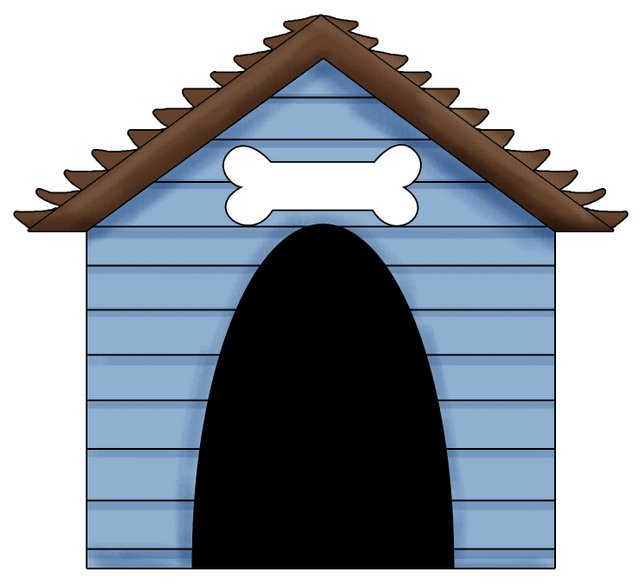
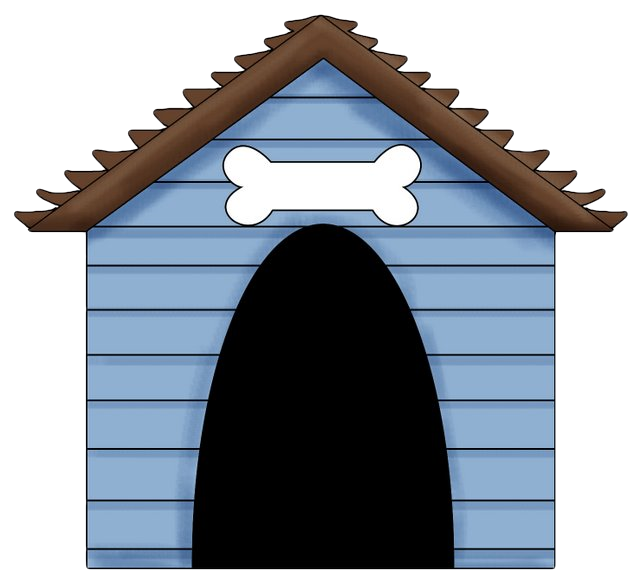
Add tons of image versions. Make images more accessible via static vars.

diff --git a/src/Panels/MainGamePanel.java b/src/Panels/MainGamePanel.java
@@ -158,7 +158,7 @@ public class MainGamePanel extends JPanel implements ActionListener {
 		//The player simply has to move the character 3 spaces to the right.
 		Level l1 = new Level(Board.unitDimension, board); 
 		l1.setPlayerSpawnPosition(4, 5);
-		l1.addGoalAtPosition(7,5, game.getBufferedImage("doghouse.png")); 
+		l1.addGoalAtPosition(7,5, game.getBufferedImage("doghouseGrass.png")); 
 		l1.setDescription("Welcome to the game! Add your commands to your strategy using"
 						  +" the buttons on the right! Then, hit the GO! button and try and"
 						  +" see if you reach the goal!"); 
@@ -171,7 +171,7 @@ public class MainGamePanel extends JPanel implements ActionListener {
 		//Level 2: Our second level. This requires them to move the character, and then turn after the correct number of spaces.
 		Level l2 = new Level(Board.unitDimension, board); 
 		l2.setPlayerSpawnPosition(3, 5);
-		l2.addGoalAtPosition(7,2, game.getBufferedImage("doghouse.png"));
+		l2.addGoalAtPosition(7,2, game.getBufferedImage(Game.goalImage));
 		l2.setDescription("OH WOW! NOW YOU HAVE TO TURN!"); 
 		l2.makeRightMoveAvailable();
 		l2.makeUpMoveAvailable();
@@ -181,7 +181,7 @@ public class MainGamePanel extends JPanel implements ActionListener {
 		//Level 3: Our third level. This level introduces the first obstacle. The Player gets the choice of going above or below the obstacle, but cannot go through it.
 		Level l3 = new Level(Board.unitDimension, board); 
 		l3.setPlayerSpawnPosition(3, 5);
-		l3.addGoalAtPosition(7,5, game.getBufferedImage("doghouse.png")); 
+		l3.addGoalAtPosition(7,5, game.getBufferedImage(Game.goalImage)); 
 		l3.addObstacleAtPosition(5, 5, game.getBufferedImage("dragon_new.png"));
 		l3.setDescription("WOW! AN OBSTACLE! TRY USING COMMANDS TO NAVIGATE AROUND IT"); 
 		
@@ -195,7 +195,7 @@ public class MainGamePanel extends JPanel implements ActionListener {
 		//Level 4: This introduces while loops
 		Level l4 = new Level(Board.unitDimension, board); 
 		l4.setPlayerSpawnPosition(0, 5); 
-		l4.addGoalAtPosition(9, 5, game.getBufferedImage("doghouse.png"));
+		l4.addGoalAtPosition(9, 5, game.getBufferedImage(Game.goalImage));
 		l4.setDescription("Wow, that goal sure is far away, Try using a while-loop "
 				+ "to get yourself there without just using 'right' over and over again."
 				+ "The loop can do that for you!");

diff --git a/src/Main/Game.java b/src/Main/Game.java
@@ -45,6 +45,10 @@ public class Game extends Applet {
 	public static final int APPLET_WIDTH = 960;
 	public static final int APPLET_HEIGHT = 600;
 	
+	public static final String goalImage = "doghouseGrassSuperLight.png";
+	public static final String userImage = "r.png";
+	public static final String trailImage = "pawPrintsGrassSuperLight.png";
+	
 	private static URL base; 							//the location of the Applet
 	
 	public Game(){
@@ -124,7 +128,7 @@ public class Game extends Applet {
 			System.out.println("I NULL"); 
 		
 		mainGamePanel.setPlayerImage(getBufferedImage("r.png")); 
-		mainGamePanel.setPlayerVisitedMark(getBufferedImage("pawPrints.png")); 
+		mainGamePanel.setPlayerVisitedMark(getBufferedImage(Game.trailImage)); 
 		
 		// add the panel to our applet
 		add(mainGamePanel);

diff --git a/src/ActionListeners/moveAdderAL.java b/src/ActionListeners/moveAdderAL.java
@@ -23,9 +23,7 @@ public class moveAdderAL implements ActionListener {
 		stratPanel = newStratPanel; 
 		selectPanel = newSelectPanel; 
 		
-		//System.out.println("OKAY"); 
-		//System.out.println(toAdd.getName()); 
-		//System.out.println(toAdd.moveList.size()) ;
+
 	}
 	//When the button is pressed to add the move to the strategylist:
 	public void actionPerformed(ActionEvent e) {

diff --git a/src/ActionListeners/conditionalMoveAdderAL.java b/src/ActionListeners/conditionalMoveAdderAL.java
@@ -109,16 +109,7 @@ public class conditionalMoveAdderAL implements ActionListener {
 				selectPanel.revalidate();
 			}
 		}
-		
-		
-		
-		
-		
+			
 	}
 
-	
-
-
-
-	
 }
